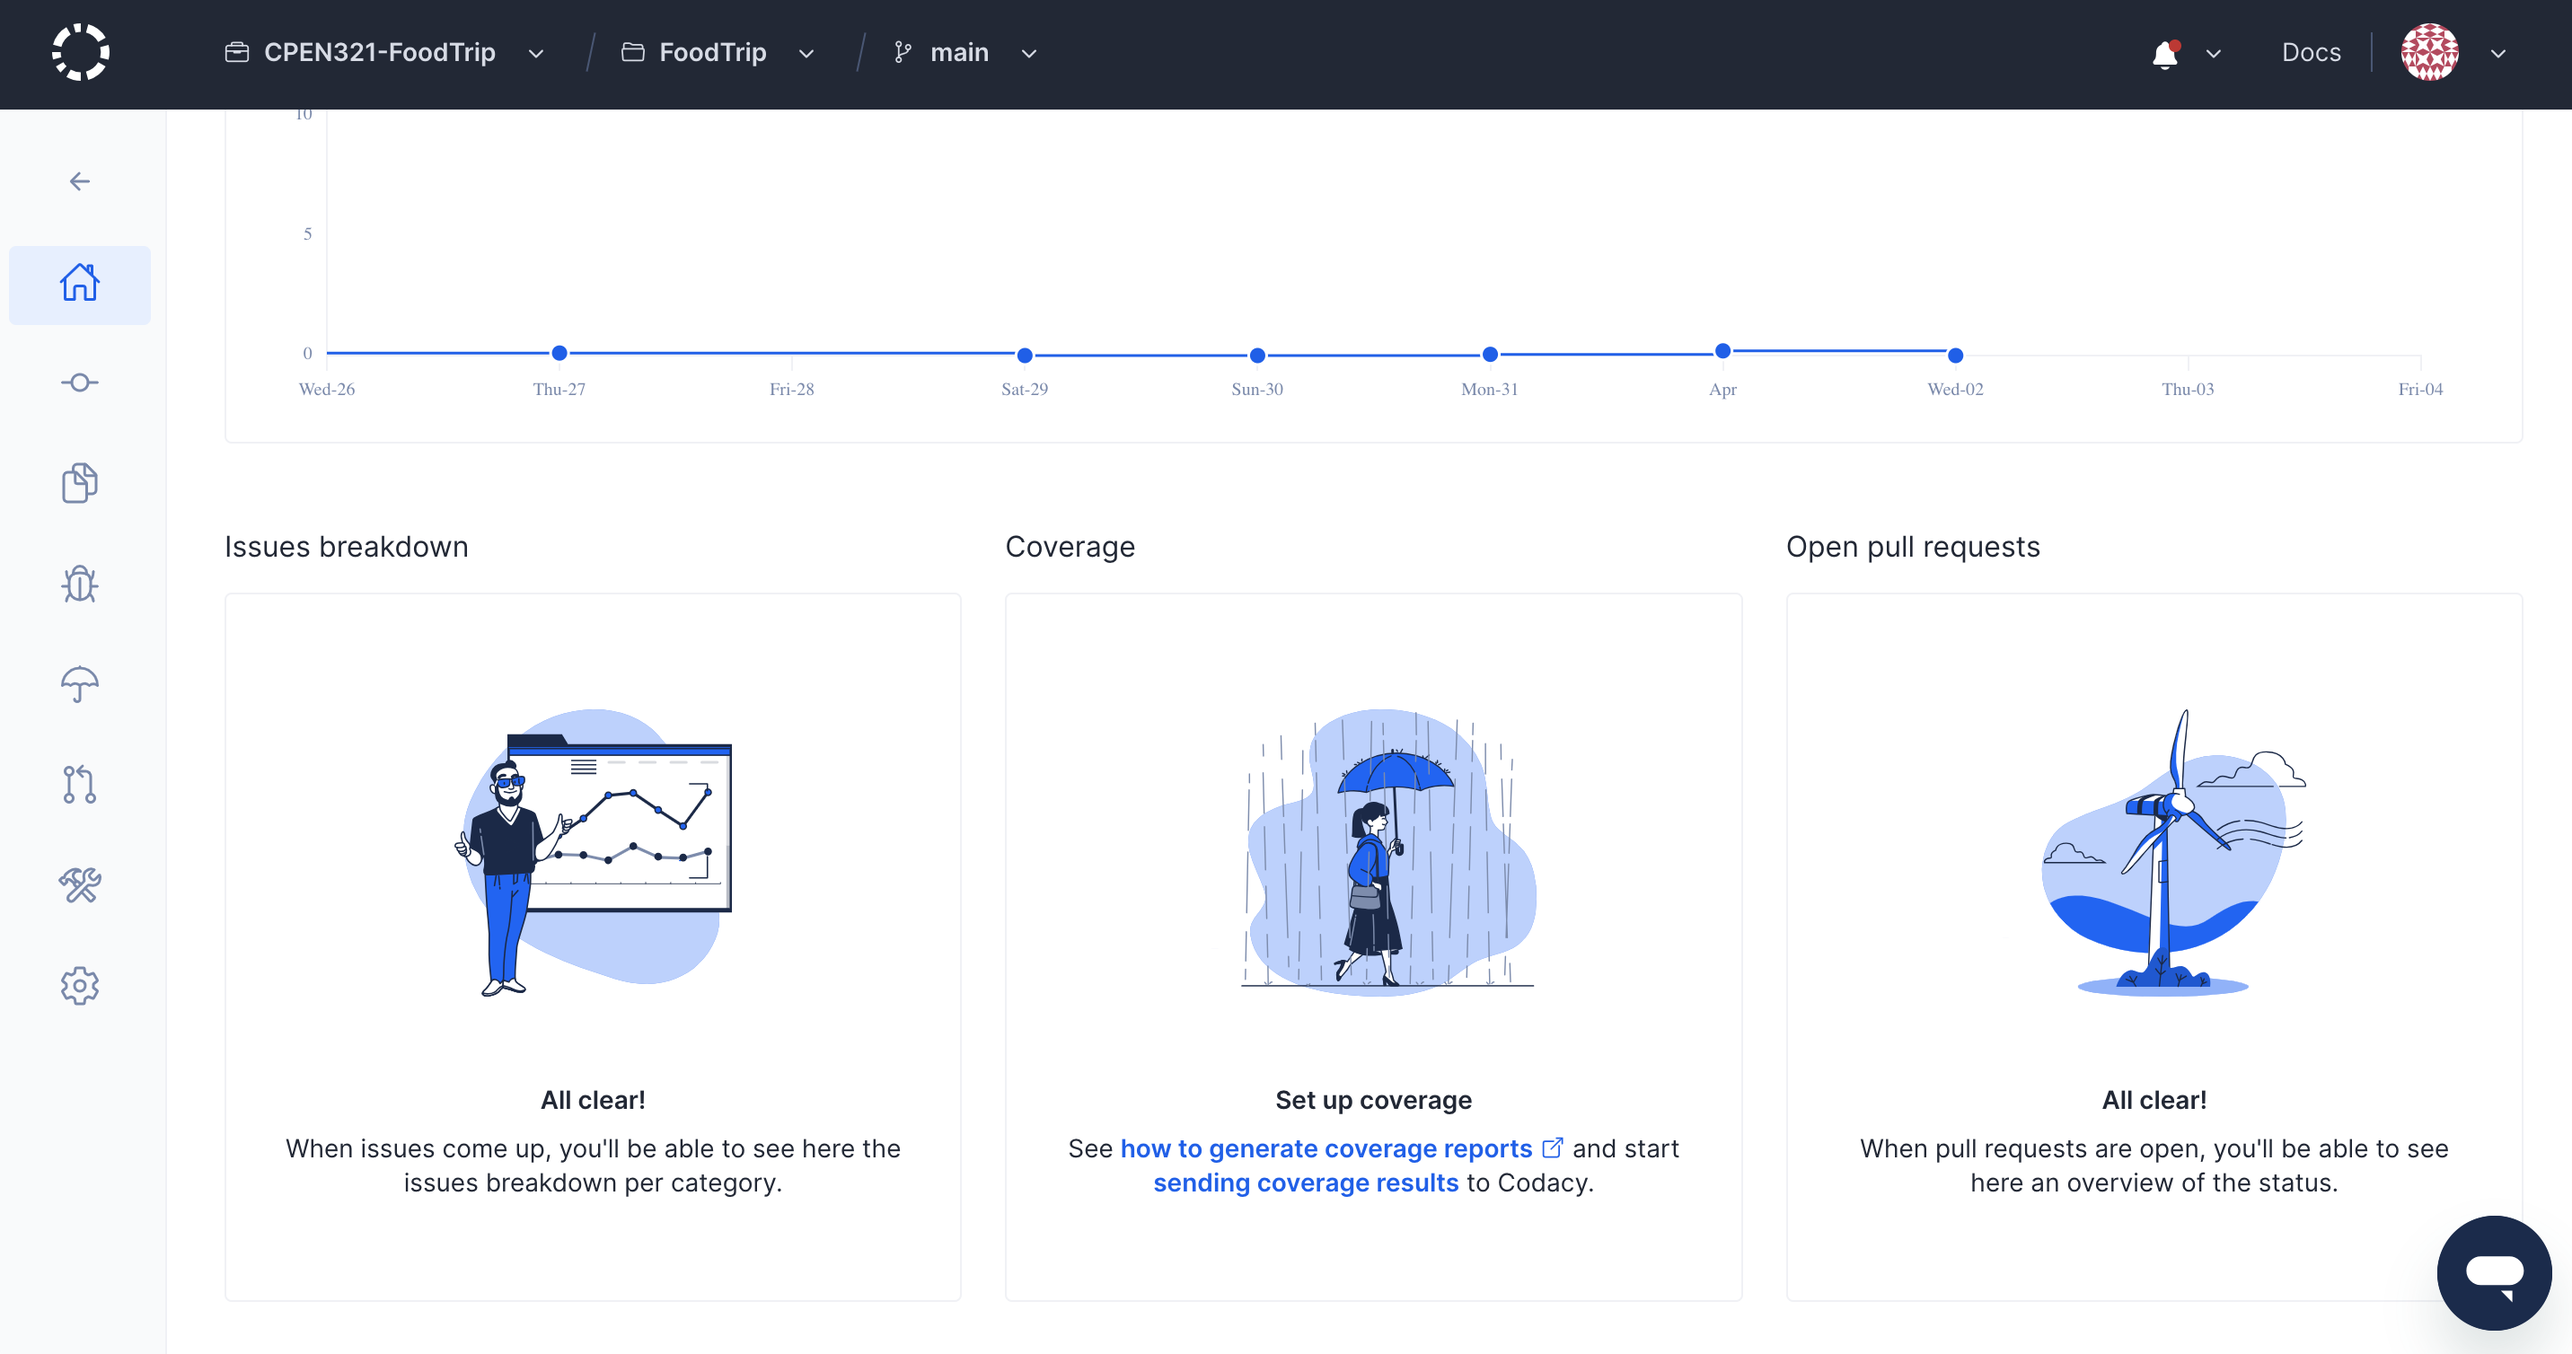
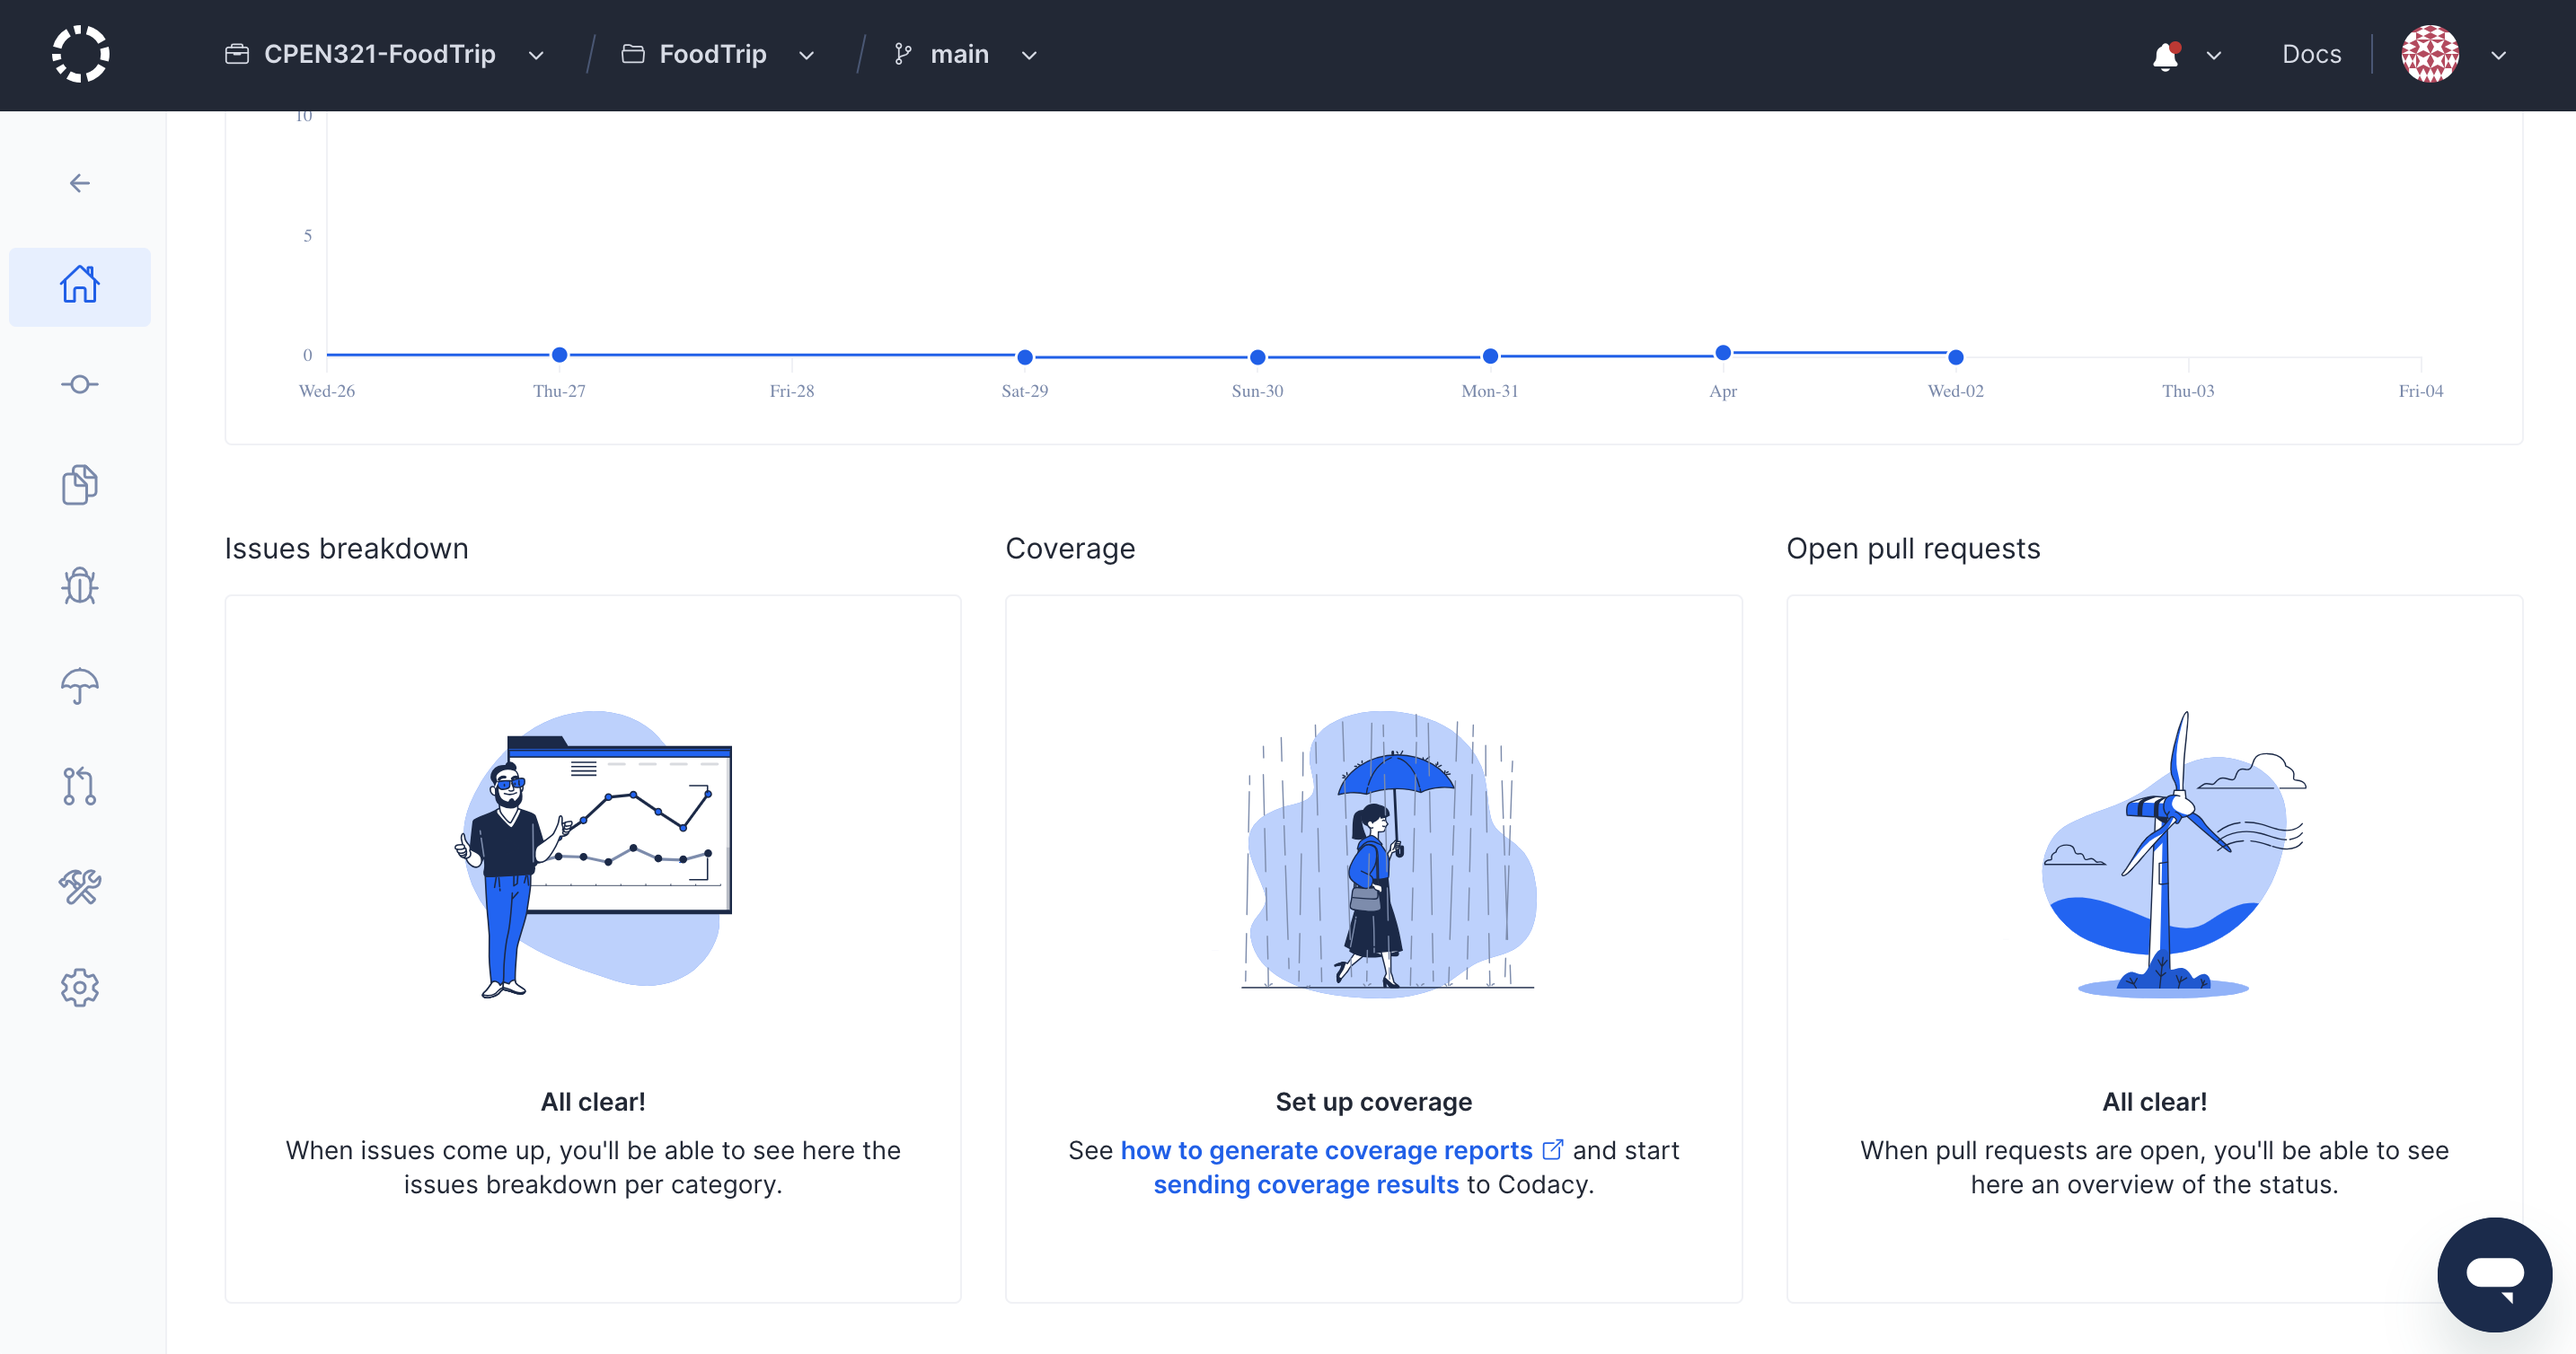
Update codacy screenshots

diff --git a/documentation/Testing_And_Code_Review.md b/documentation/Testing_And_Code_Review.md
@@ -15,6 +15,7 @@
 | April 3, 2025 | 3.1 | Update frontend non-functional test location to reflect new file |
 | April 3, 2025 | 3.2 | Update frontend usability test log for new test |
 | April 3, 2025 | 4.2 | Update frontend functional test logs with most recent run |
+| April 3, 2025 | 5.* | Update codacy screenshots and commit hash to account for code updates |
 
 ---
 
@@ -427,7 +428,7 @@ The `index.ts`, `jest.config.ts` and `services.ts` files do not have 100% covera
 
 ### 5.1. Commit Hash Where Codacy Ran
 
-`c4af1f3921930b82a3fe69d18c0ba64f4b2c03f4`
+`abfa2144599635f44dcd59fd106209fd80abb743`
 
 ### 5.2. Unfixed Issues per Codacy Category
 
